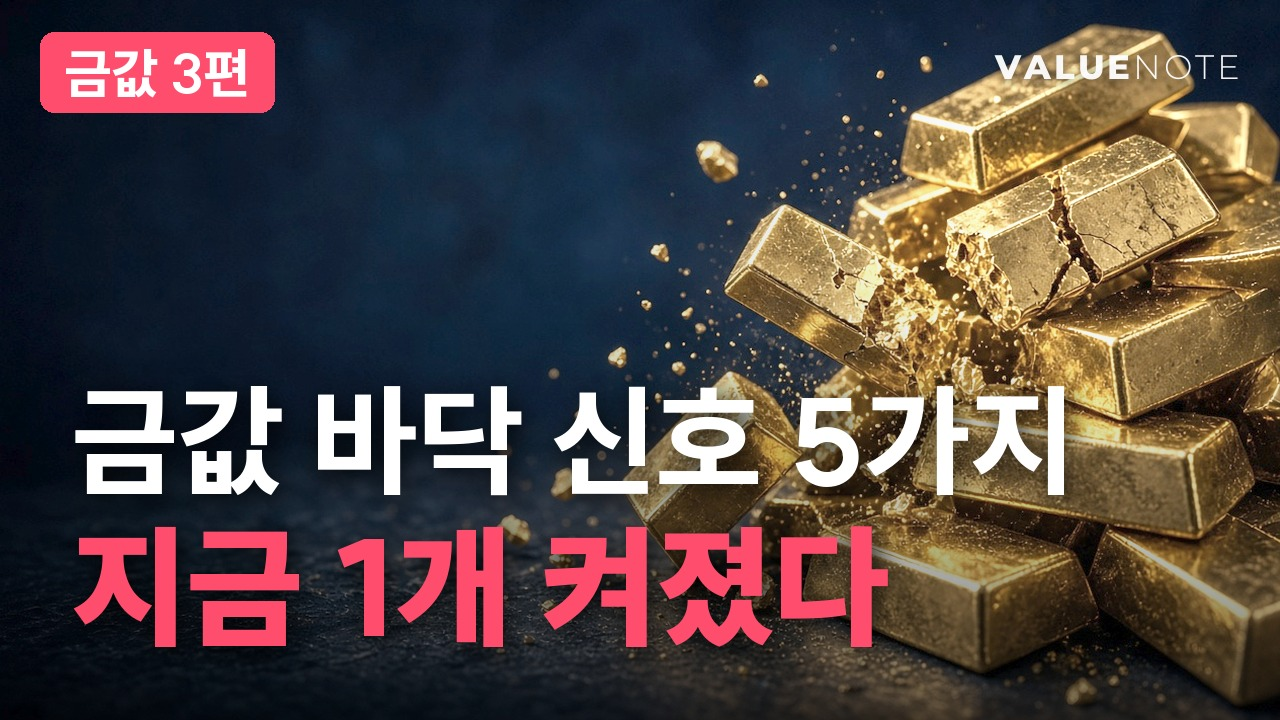
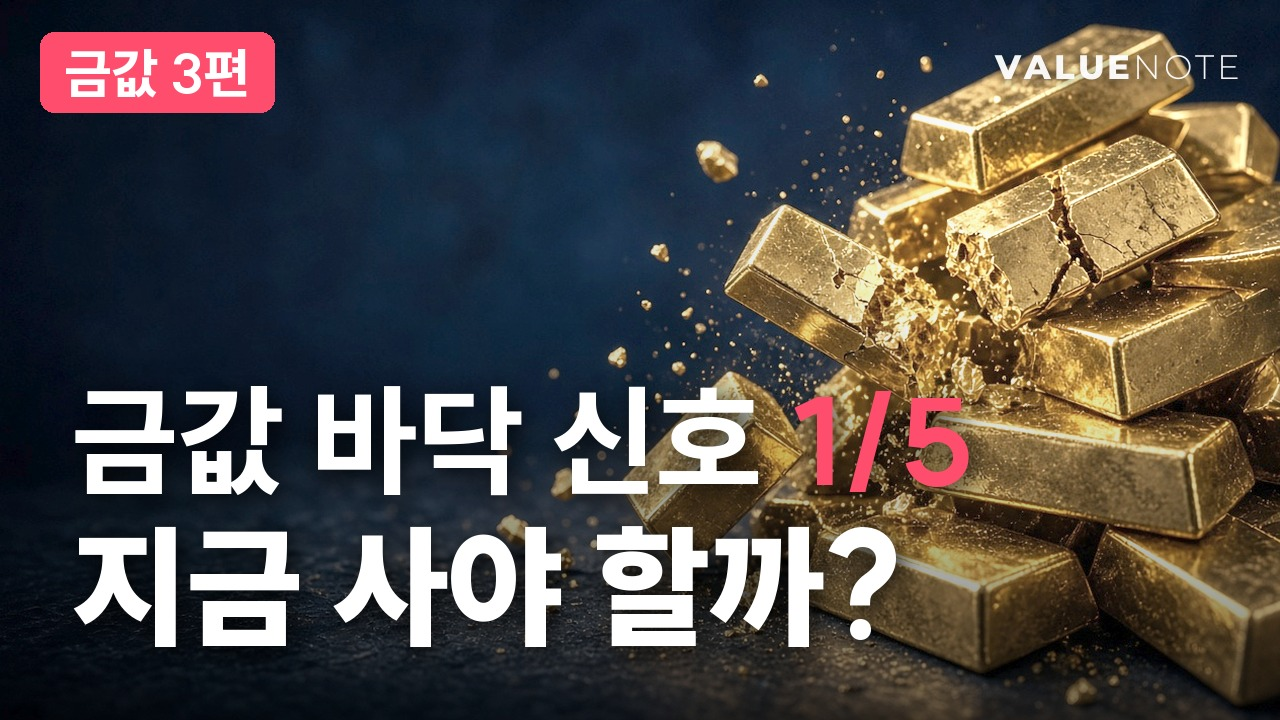
gold-3 썸네일: B 2편 문구 유지, C·A '금값 바닥 신호 1/5 / 지금 사야 할까?'
Claude-Session: https://claude.ai/code/session_01KaYReGeNvFYwSy6KbuMUmu

Changed region(s): [[0.0625, 0.7333, 0.7188, 0.9167], [0.625, 0.5194, 0.8438, 0.7028]]

diff --git a/scripts/youtube/long/drafts/L261124-gold-3_thumbs.py b/scripts/youtube/long/drafts/L261124-gold-3_thumbs.py
@@ -13,9 +13,9 @@ LIB = os.path.join(HERE, "..", "..", "..", "blog", "media", "lib")
 TW, TH = 1280, 720; PINK = vn2.PINK; WHITE = (255, 255, 255, 255)
 
 SETS = [   # 세 안 모두 '바닥 신호 5가지' 노출, 사진 3장 서로 다르게
-    dict(file="thumb_a.jpg", photo="il_L261124g_thumb_goldbars.jpeg", fx=.55, l1="금값 바닥 신호 5가지", l2=("지금 1개 켜졌다", "")),
-    dict(file="thumb_b.jpg", photo="il_L261124g_goldvault_wide.jpeg", fx=.6, g2=True, chip="1월보다 -37%", l1=[("금값", "gold"), (" 바닥 신호 ", "w"), ("1/5", "pink")], l2=[("지금 사야 할까?", "w")]),   # 2026-11-24 17:45 대표: 한 안은 2편 썸네일(본 사람이 많음)과 비슷하게
-    dict(file="thumb_c.jpg", gauge="globe_L261124g_fx_gauge_final.mp4", l1="금값 바닥 신호 5가지", l2=("지금 1개", " 켜졌다")),   # 2026-11-24 17:44 대표: 한 안은 계기판 5개를 흐리게 깔고
+    dict(file="thumb_a.jpg", photo="il_L261124g_thumb_goldbars.jpeg", fx=.55, l1=("금값 바닥 신호 ", "1/5"), l2=("", "지금 사야 할까?")),
+    dict(file="thumb_b.jpg", photo="il_L261124g_goldvault_wide.jpeg", fx=.6, g2=True, chip="바닥 신호 5가지", l1=[("금값", "gold"), (" 1월보다 ", "w"), ("-37%", "pink")], l2=[("지금 사야 할까?", "w")]),   # 2026-11-24 17:45 대표: 한 안은 2편 썸네일(본 사람이 많음)과 비슷하게
+    dict(file="thumb_c.jpg", gauge="globe_L261124g_fx_gauge_final.mp4", l1=("금값 바닥 신호 ", "1/5"), l2=("", "지금 사야 할까?")),   # 2026-11-24 17:44 대표: 한 안은 계기판 5개를 흐리게 깔고
 ]
 
 
